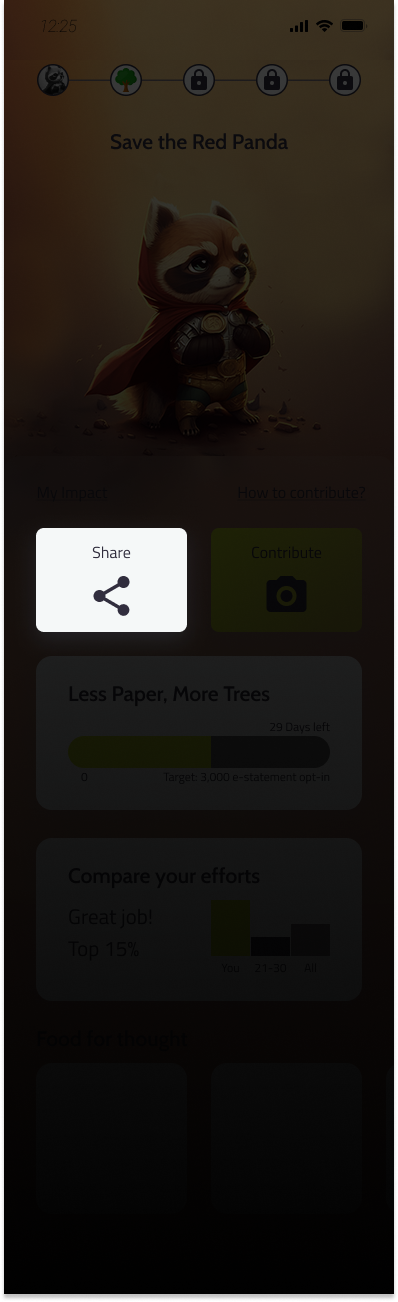
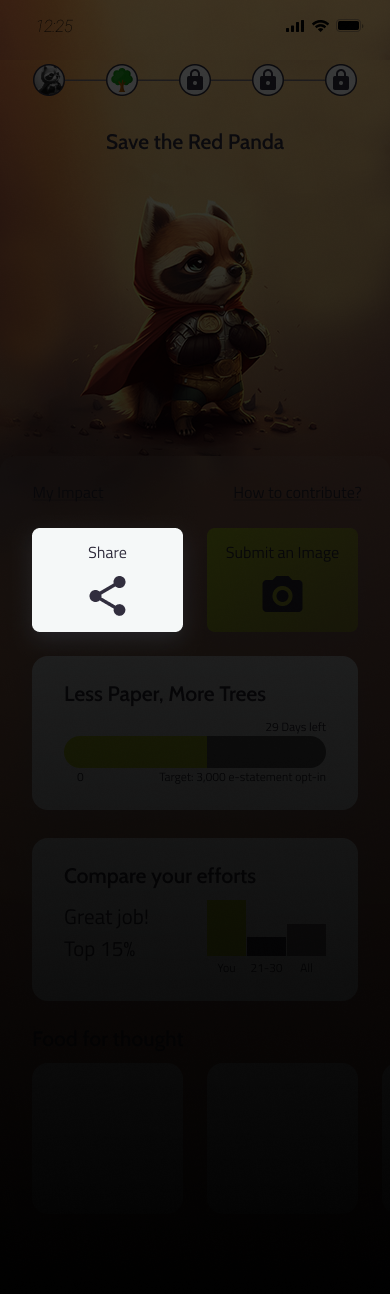
:sparkles: feat: update onboarding

diff --git a/src/pages/Onboarding/index.tsx b/src/pages/Onboarding/index.tsx
@@ -9,22 +9,50 @@ import img4 from "../../assets/onboarding/4.png";
 import img5 from "../../assets/onboarding/5.png";
 import img6 from "../../assets/onboarding/6.png";
 import img7 from "../../assets/onboarding/7.png";
+import img8 from "../../assets/onboarding/8.png";
+import img9 from "../../assets/onboarding/9.png";
+import img10 from "../../assets/onboarding/10.png";
+import img11 from "../../assets/onboarding/11.png";
+import img12 from "../../assets/onboarding/12.png";
+import img13 from "../../assets/onboarding/13.png";
 
 const Onboarding = () => {
   const router = useIonRouter();
 
   const steps = [
     "Let's get you started \n on your recyling journey!",
-    "The status bar shows you \n which stage the quest is at",
+    "The status bar shows you the \n quest stage",
     "Here you can find the  \n instructions to the current \n challenge",
     "You may view your progress \n and efforts here!",
-    "Whenever you’re ready, you \n may submit a contribution \n here!",
-    "Every time your \n contribution is validated, it \n will add to this progress bar. \n Upon completion, the vote \n for the next challenge will \n begin!",
-    "Your adventure now begins, \n don’t forget to invite your \n friends!",
+    "Whenever you’re ready, you \n may submit a image \n here!",
+    "Every validated image \n advances your challenge's \n progress bar. Once the \n challenge has been \n completed, your group can \n vote on the next \n challege to attempt!",
+    "Your adventure now begins. \n Don’t forget to invite your \n friends!",
+    "Submit your\nfirst image now!",
+    "",
+    "You can view the image you\nare about to submit",
+    "Help verify if the image\nmatches the description",
+    "You may help validate using\nthe buttons below",
+    "Once the challenge goal is\nmet, the community will\nvote for the next challenge",
   ];
-  const images = [img1, img2, img3, img4, img5, img6, img7];
+  const images = [
+    img1,
+    img2,
+    img3,
+    img4,
+    img5,
+    img6,
+    img7,
+    img8,
+    img9,
+    img10,
+    img11,
+    img12,
+    img13,
+  ];
 
-  const height = [300, 130, 550, 550, 690, 350, 670];
+  const height = [
+    300, 130, 550, 550, 690, 350, 690, 690, 730, 400, 670, 590, 490,
+  ];
 
   const [currentStep, setCurrentStep] = useState(0);
 
@@ -32,6 +60,7 @@ const Onboarding = () => {
     if (currentStep < steps.length - 1) {
       setCurrentStep(currentStep + 1);
     }
+
     if (currentStep === steps.length - 1) {
       localStorage.setItem("showOnboarding", "false");
       const nextId = localStorage.getItem("nextId") || 2;
@@ -41,7 +70,11 @@ const Onboarding = () => {
 
   return (
     <div className="w-full h-screen overflow-auto relative">
-      <img src={images[currentStep]} className="w-full" alt="onboarding" />
+      <img
+        src={images[currentStep]}
+        className="w-full mb-10"
+        alt="onboarding"
+      />
       <div
         style={{
           top: `${height[currentStep]}px`,

diff --git a/src/pages/Game/Game.tsx b/src/pages/Game/Game.tsx
@@ -271,7 +271,7 @@ const Game = () => {
                       onClick={onClickContribute}
                       className="underline-offset-2 underline " // align this link to the right
                     >
-                      Event Information
+                      How to submit an image?
                     </p>
                   </div>
                   <div className="flex justify-between mt-4 text-base">
@@ -296,7 +296,7 @@ const Game = () => {
                       }}
                     >
                       <div className="flex flex-col items-center">
-                        <p>Contribute</p>
+                        <p>Submit an Image</p>
                         <CameraIcon className="h-12 w-12 mt-1" />
                       </div>
                     </AppButton>
